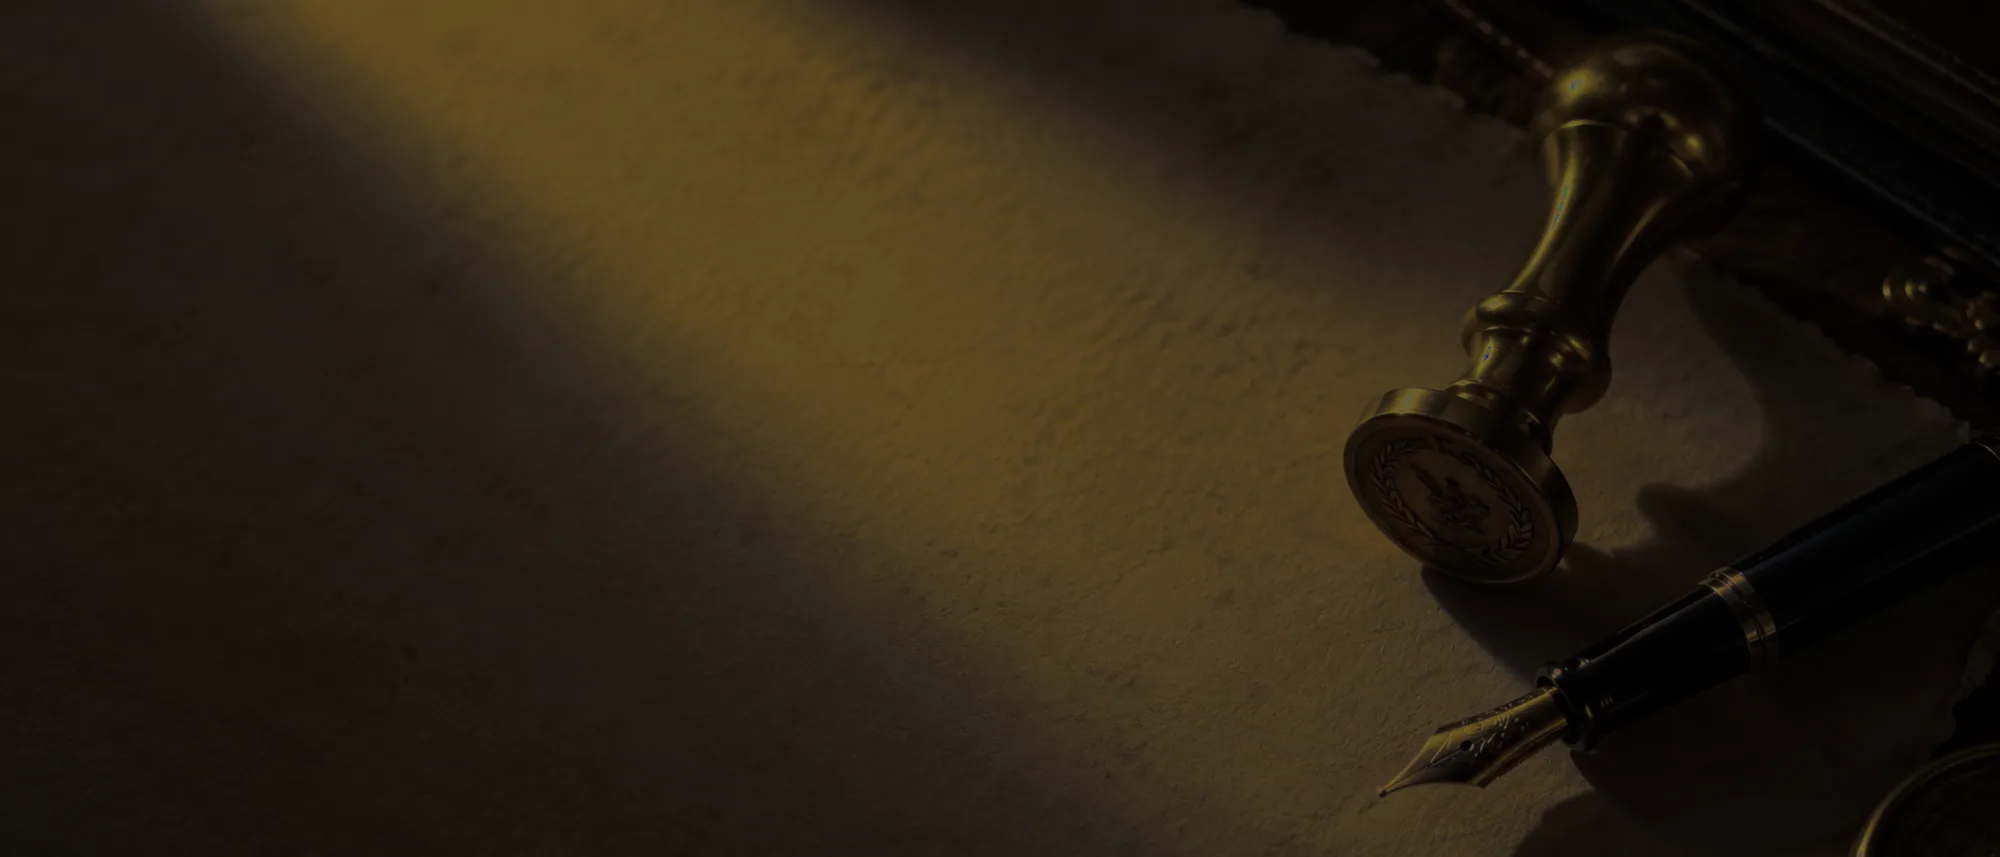
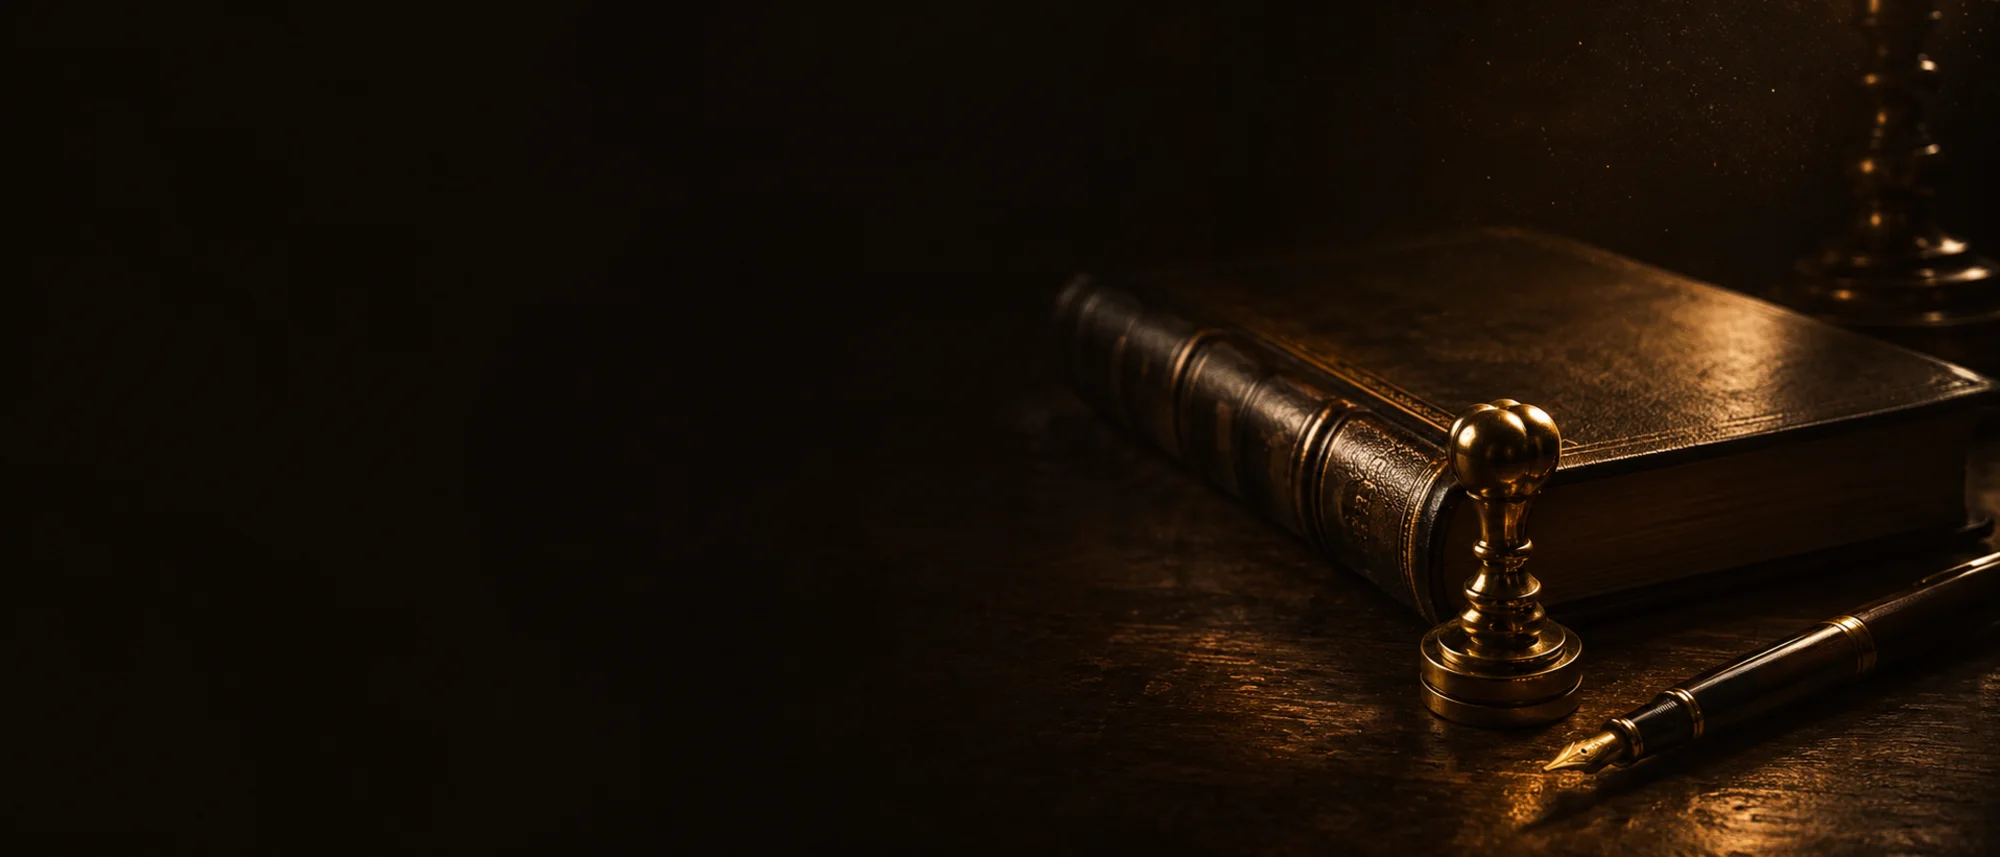
Imagen real de fondo en Contacto + cursor 1:1 sin lag
- public/images/contacto-bg.webp ahora es la imagen definitiva del cliente
- GoldCursor sigue al puntero a velocidad normal (sin spring), conserva
  la animación de crecer en hover

diff --git a/src/components/GoldCursor.tsx b/src/components/GoldCursor.tsx
@@ -1,5 +1,5 @@
 import { useEffect, useState } from 'react'
-import { motion, useMotionValue, useSpring } from 'motion/react'
+import { motion, useMotionValue } from 'motion/react'
 
 /**
  * Cursor dorado custom (audacia 10).
@@ -11,10 +11,9 @@ export function GoldCursor() {
   const [visible, setVisible] = useState(false)
   const [hovering, setHovering] = useState(false)
 
+  // Posición 1:1 con el puntero (sin spring) → velocidad normal, sin lag
   const x = useMotionValue(-100)
   const y = useMotionValue(-100)
-  const sx = useSpring(x, { damping: 30, stiffness: 450, mass: 0.4 })
-  const sy = useSpring(y, { damping: 30, stiffness: 450, mass: 0.4 })
 
   useEffect(() => {
     const fine = window.matchMedia('(pointer: fine)').matches
@@ -50,7 +49,7 @@ export function GoldCursor() {
     <motion.div
       aria-hidden
       className="pointer-events-none fixed left-0 top-0 z-[100] mix-blend-difference"
-      style={{ x: sx, y: sy }}
+      style={{ x, y }}
     >
       <motion.div
         className="rounded-full border border-gold-400"
